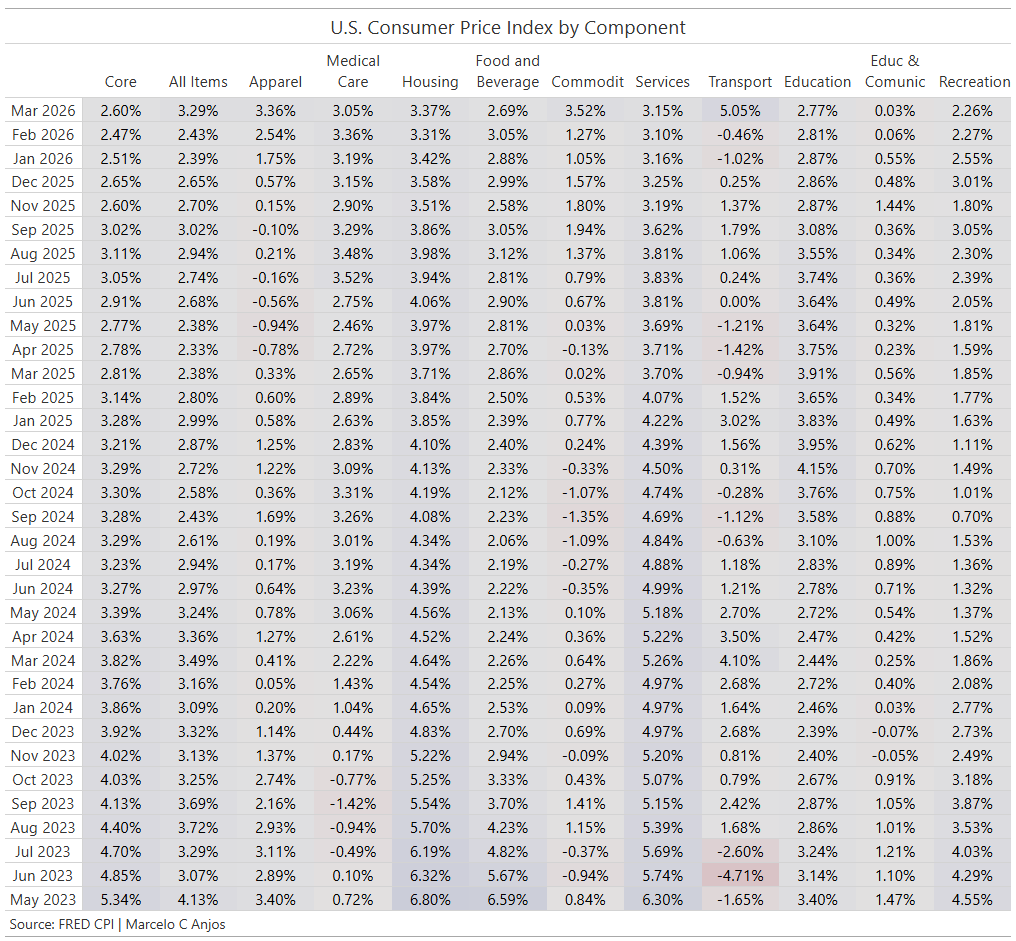
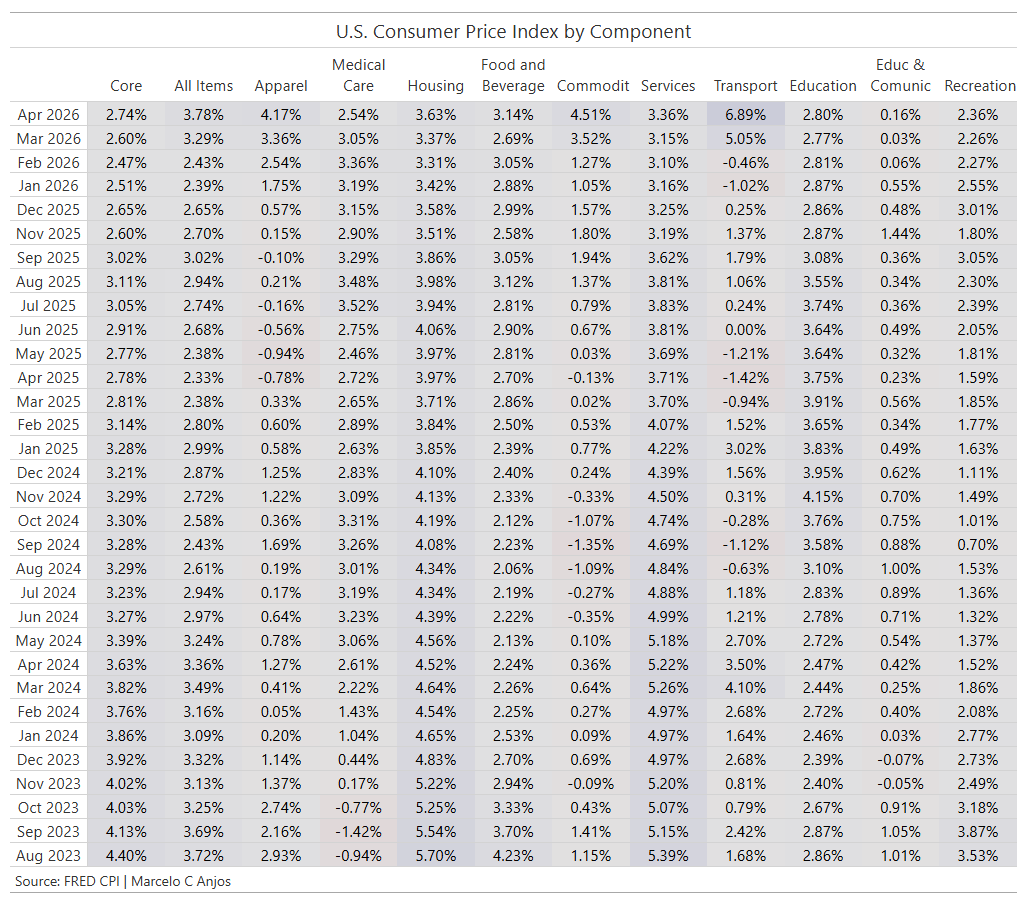
update data

Changed region(s): [[0.0, 0.0, 1.0, 0.9978]]

diff --git a/docs/workflow.html b/docs/workflow.html
@@ -2,13 +2,16 @@
 <html xmlns="http://www.w3.org/1999/xhtml" lang="en" xml:lang="en"><head>
 
 <meta charset="utf-8">
-<meta name="generator" content="quarto-1.8.25">
+<meta name="generator" content="quarto-1.9.36">
 
 <meta name="viewport" content="width=device-width, initial-scale=1.0, user-scalable=yes">
 
 
-<title>Workflow – Kaizen &amp; Advanced Manufacturing</title>
+<title>Framework &amp; Workflow – Kaizen &amp; Advanced Manufacturing</title>
 <style>
+/* Default styles provided by pandoc.
+** See https://pandoc.org/MANUAL.html#variables-for-html for config info.
+*/
 code{white-space: pre-wrap;}
 span.smallcaps{font-variant: small-caps;}
 div.columns{display: flex; gap: min(4vw, 1.5em);}
@@ -32,15 +35,14 @@ ul.task-list li input[type="checkbox"] {
 <meta name="quarto:offset" content="./">
 <script src="site_libs/quarto-html/quarto.js" type="module"></script>
 <script src="site_libs/quarto-html/tabsets/tabsets.js" type="module"></script>
-<script src="site_libs/quarto-html/axe/axe-check.js" type="module"></script>
 <script src="site_libs/quarto-html/popper.min.js"></script>
 <script src="site_libs/quarto-html/tippy.umd.min.js"></script>
 <script src="site_libs/quarto-html/anchor.min.js"></script>
 <link href="site_libs/quarto-html/tippy.css" rel="stylesheet">
-<link href="site_libs/quarto-html/quarto-syntax-highlighting-7b89279ff1a6dce999919e0e67d4d9ec.css" rel="stylesheet" id="quarto-text-highlighting-styles">
+<link href="site_libs/quarto-html/quarto-syntax-highlighting-845c23b38eaddc0f92fda52bfe77a8c8.css" rel="stylesheet" id="quarto-text-highlighting-styles">
 <script src="site_libs/bootstrap/bootstrap.min.js"></script>
 <link href="site_libs/bootstrap/bootstrap-icons.css" rel="stylesheet">
-<link href="site_libs/bootstrap/bootstrap-ccc1f52534dc147ef84fa7e2ea81d626.min.css" rel="stylesheet" append-hash="true" id="quarto-bootstrap" data-mode="light">
+<link href="site_libs/bootstrap/bootstrap-2ba2ec8dff11e7f58db16858439c33fd.min.css" rel="stylesheet" append-hash="true" id="quarto-bootstrap" data-mode="light">
 <script id="quarto-search-options" type="application/json">{
   "location": "navbar",
   "copy-button": false,
@@ -88,8 +90,6 @@ gtag('config', 'G-YQPR1KZE4G', { 'anonymize_ip': true});
     <nav class="navbar navbar-expand-lg " data-bs-theme="dark">
       <div class="navbar-container container-fluid">
       <div class="navbar-brand-container mx-auto">
-    <a href="./index.html" class="navbar-brand navbar-brand-logo">
-    </a>
     <a class="navbar-brand" href="./index.html">
     <span class="navbar-title">Kaizen &amp; Advanced Manufacturing</span>
     </a>
@@ -110,13 +110,13 @@ gtag('config', 'G-YQPR1KZE4G', { 'anonymize_ip': true});
   </li>  
   <li class="nav-item">
     <a class="nav-link active" href="./workflow.html" aria-current="page"> 
-<span class="menu-text">Workflow</span></a>
+<span class="menu-text">Framework</span></a>
   </li>  
   <li class="nav-item dropdown ">
-    <a class="nav-link dropdown-toggle" href="#" id="nav-menu-research-2024-2025" role="link" data-bs-toggle="dropdown" aria-expanded="false">
- <span class="menu-text">Research 2024-2025</span>
+    <a class="nav-link dropdown-toggle" href="#" id="nav-menu-research-2024-2026" role="link" data-bs-toggle="dropdown" aria-expanded="false">
+ <span class="menu-text">Research 2024-2026</span>
     </a>
-    <ul class="dropdown-menu" aria-labelledby="nav-menu-research-2024-2025">    
+    <ul class="dropdown-menu" aria-labelledby="nav-menu-research-2024-2026">    
         <li>
     <a class="dropdown-item" href="./calendar.html">
  <span class="dropdown-text">Calendar</span></a>
@@ -174,7 +174,7 @@ gtag('config', 'G-YQPR1KZE4G', { 'anonymize_ip': true});
 
 <header id="title-block-header" class="quarto-title-block default">
 <div class="quarto-title">
-<h1 class="title">Workflow</h1>
+<h1 class="title">Framework &amp; Workflow</h1>
 <p class="subtitle lead">The approach and key steps I follow in the projects I work on</p>
 </div>
 

diff --git a/docs/index.html b/docs/index.html
@@ -126,13 +126,13 @@ gtag('config', 'G-YQPR1KZE4G', { 'anonymize_ip': true});
   </li>  
   <li class="nav-item">
     <a class="nav-link" href="./workflow.html"> 
-<span class="menu-text">Workflow</span></a>
+<span class="menu-text">Framework</span></a>
   </li>  
   <li class="nav-item dropdown ">
-    <a class="nav-link dropdown-toggle" href="#" id="nav-menu-research-2024-2025" role="link" data-bs-toggle="dropdown" aria-expanded="false">
- <span class="menu-text">Research 2024-2025</span>
+    <a class="nav-link dropdown-toggle" href="#" id="nav-menu-research-2024-2027" role="link" data-bs-toggle="dropdown" aria-expanded="false">
+ <span class="menu-text">Research 2024-2027</span>
     </a>
-    <ul class="dropdown-menu" aria-labelledby="nav-menu-research-2024-2025">    
+    <ul class="dropdown-menu" aria-labelledby="nav-menu-research-2024-2027">    
         <li>
     <a class="dropdown-item" href="./calendar.html">
  <span class="dropdown-text">Calendar</span></a>